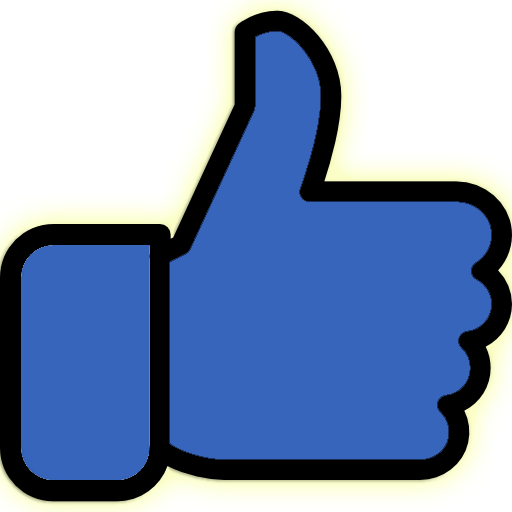
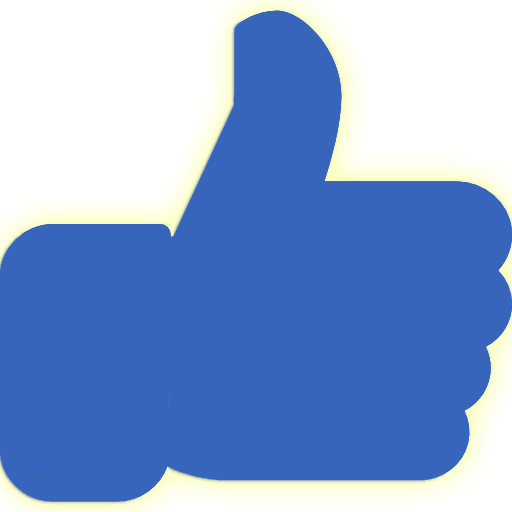
調整CSS

Changed region(s): [[0.0, 0.0, 1.0, 1.0]]

diff --git a/dev/sass/showbenton.scss b/dev/sass/showbenton.scss
@@ -373,6 +373,7 @@ p.showMyself {
   line-height: 20px;
   margin-left: auto;
   outline: none;
+  display: block;
 }
 
 //-------------共用樣式-------------
@@ -761,7 +762,25 @@ button.Pre {
   border: 1px solid transparent;
   z-index: -1;
   opacity: 0.8;
+} //header 效果
+#homeTwoScreen .top_group .navgroup .showbento {
+  color: $orange;
+  font: 12px;
+  &:before {
+    content: "";
+    overflow: hidden;
+    position: absolute;
+    transform: translate3d(0, 0, 0);
+    // display: block;
+    left: 1%;
+    background-image: url("../../dest/images/header/faultc_01.png");
+    width: 50px;
+    height: 50px;
+    transition: 0.5s;
+    opacity: 1;
+  }
 }
+
 //---------------------RWD
 
 @media screen and (max-width: 576px) {
@@ -1010,25 +1029,6 @@ button.Pre {
 }
 .ranking::after {
   left: 90px;
-}
-
-//header 效果
-#homeTwoScreen .top_group .navgroup .showbento {
-  color: $orange;
-  font: 12px;
-  &:before {
-    content: "";
-    overflow: hidden;
-    position: absolute;
-    transform: translate3d(0, 0, 0);
-    // display: block;
-    left: 1%;
-    background-image: url("../../dest/images/header/faultc_01.png");
-    width: 50px;
-    height: 50px;
-    transition: 0.5s;
-    opacity: 1;
-  }
 }
 
 @media screen and (max-width: 375px) {

diff --git a/dev/js/showbenton.js b/dev/js/showbenton.js
@@ -377,7 +377,7 @@ let bentonWallVm = new Vue({
     bentonWallNumber,
     bentonCardArray: [],
     currentPager,
-    likeImgSrc: "./images/showbenton/like1.png",
+    likeImgSrc: "./images/showbenton/like.png",
     likedImgSrc: "./images/showbenton/like1.png",
   },
   methods: {

diff --git a/dev/php/connect.php b/dev/php/connect.php
@@ -1,7 +1,7 @@
 <?php
-	$dsn = "mysql:host=localhost;port=8889;dbname=ED101G1;charset=utf8";
+	$dsn = "mysql:host=localhost;port=3306;dbname=ED101G1;charset=utf8";
 	$user = "root";
-	$password = "root";
+	$password = "0422";
 	$options = array(PDO::ATTR_ERRMODE=>PDO::ERRMODE_EXCEPTION);
 	$pdo = new PDO( $dsn, $user, $password, $options); 
 ?>
